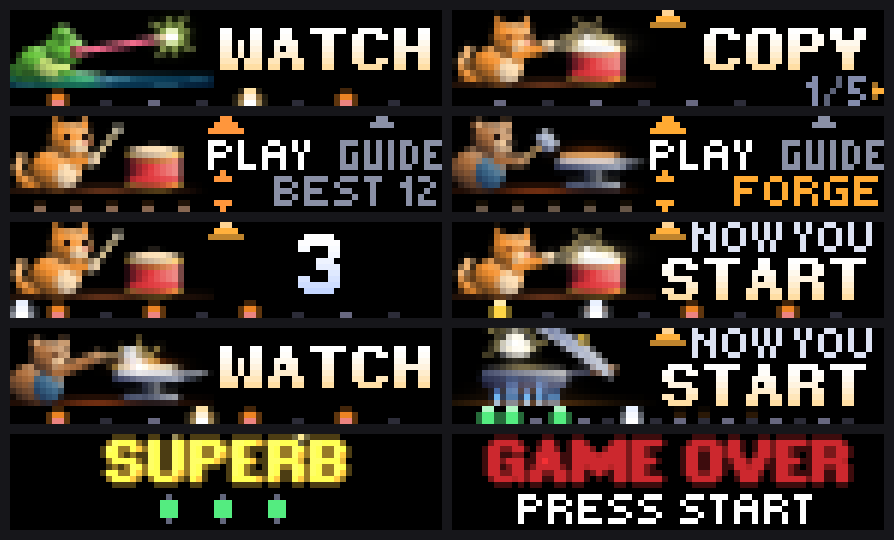
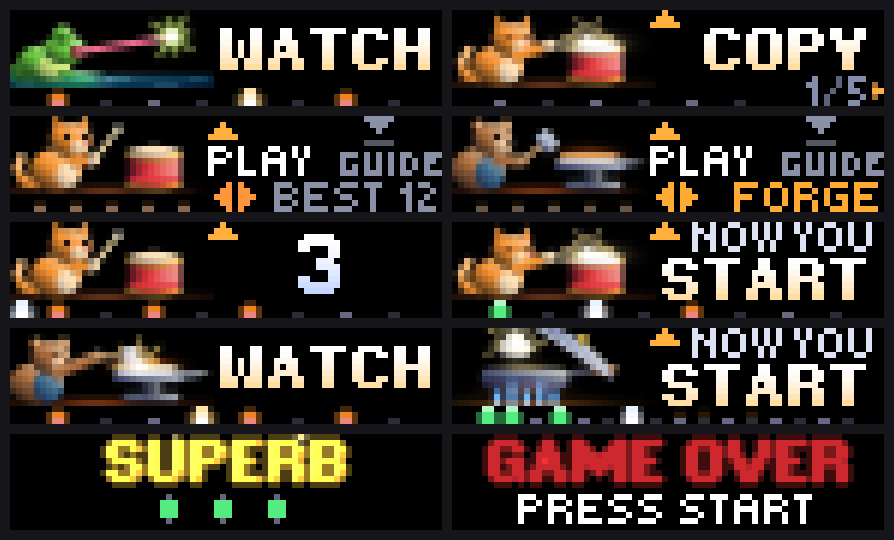
Bop Back: one mark for pressing the knob, Start mark that moves

diff --git a/bop_back/src/main.js b/bop_back/src/main.js
@@ -9,7 +9,7 @@
 // of five pages shown the first time the app is used (images/bk_<n>.png: the player turns them), the start.
 // Nothing is made on a beat: a round moves or exchanges pictures that exist (see TIMING below).
 
-const D = {"app":"io.github.windagh.bop_back","acts":[{"k":"cat","n":"CAT","c":"#FF963CFF"},{"k":"forge","n":"FORGE","c":"#FFAA32FF"},{"k":"frog","n":"FROG","c":"#96E850FF"},{"k":"peck","n":"PECK","c":"#FF6050FF"},{"k":"pop","n":"POP","c":"#FFD650FF"}],"rh":[[[8,90,"x.x.x.x.",0,1],[8,90,"x.x.x...",1,1],[8,90,"x...x.x.",2,1],[8,90,"x.x...x.",3,1],[8,90,"..x.x.x.",4,1]],[[8,96,"x.x.xxx.",5,2],[8,96,"xxx.x.x.",6,2],[8,96,"x.xxx.x.",7,2],[8,96,"x.x.x.xx",8,2],[8,96,"xxx.xxx.",9,2]],[[8,104,"x..x..x.",10,3],[8,104,"x..xx.x.",11,3],[8,104,"x.xx..x.",12,3],[8,104,"x.x..xx.",13,3],[8,104,"x..x.xx.",14,3]],[[8,112,"xx.xx.x.",15,4],[8,112,"x..x.x.x",16,4],[8,112,"xxx..xx.",17,4],[8,112,"x.xx.xx.",18,4],[8,112,".xx.x.x.",19,4]],[[8,108,"x.x.x.x.x.xxx...",20,5],[8,108,"x..x..x.x.x.x...",21,5],[8,108,"x.xxx...x.xx..x.",22,5],[8,108,"x.x.xx..x.xx.x..",23,5],[8,108,"xxx.x...xxx.x...",24,5]],[[16,100,"x...x.xxx...x...",25,6],[16,100,"xx..x...xx..x...",26,6],[16,100,"x...xx..x...xx..",27,6],[16,100,"x.x.xx..x...x...",28,6],[16,100,"x...x...xx.xx...",29,6]],[[8,124,"x.xxx.xx",30,7],[8,124,"xx.x.xx.",31,7],[8,124,"xxx.xx.x",32,7],[8,124,"x..xxx.x",33,7],[8,124,".x.xx.x.",34,7]],[[8,130,"x.xx.x..x.x.xx..",35,8],[8,130,"x..x..x.x..xx.x.",36,8],[8,130,"xx.x..x.xx.x....",37,8],[8,130,"x.x.xx.x..x.x.x.",38,8],[16,112,"x..xx.x.x..xx.x.",39,8]]],"signs":{"superb":567,"ok":300,"again":700,"over":700},"book":5,"titleW":33,"gag":750,"logo":1667,"dimFrom":4,"small":{"A":4,"B":4,"C":4,"D":4,"E":4,"F":4,"G":4,"H":4,"I":1,"J":3,"K":4,"L":3,"M":5,"N":4,"O":4,"P":4,"Q":4,"R":4,"S":4,"T":3,"U":4,"V":3,"W":5,"X":3,"Y":3,"Z":3,"a":3,"b":3,"c":3,"d":3,"e":3,"f":2,"g":3,"h":3,"i":1,"j":2,"k":3,"l":1,"m":5,"n":3,"o":3,"p":3,"q":3,"r":2,"s":3,"t":2,"u":3,"v":3,"w":5,"x":3,"y":3,"z":3,"0":3,"1":2,"2":3,"3":3,"4":3,"5":3,"6":3,"7":3,"8":3,"9":3,",":1,":":1,".":1,"%":4,"/":2,"-":2,"+":3," ":1,"&":4},"smallGap":1};
+const D = {"app":"io.github.windagh.bop_back","acts":[{"k":"cat","n":"CAT","c":"#FF963CFF"},{"k":"forge","n":"FORGE","c":"#FFAA32FF"},{"k":"frog","n":"FROG","c":"#96E850FF"},{"k":"peck","n":"PECK","c":"#FF6050FF"},{"k":"pop","n":"POP","c":"#FFD650FF"}],"rh":[[[8,90,"x.x.x.x.",0,1],[8,90,"x.x.x...",1,1],[8,90,"x...x.x.",2,1],[8,90,"x.x...x.",3,1],[8,90,"..x.x.x.",4,1]],[[8,96,"x.x.xxx.",5,2],[8,96,"xxx.x.x.",6,2],[8,96,"x.xxx.x.",7,2],[8,96,"x.x.x.xx",8,2],[8,96,"xxx.xxx.",9,2]],[[8,104,"x..x..x.",10,3],[8,104,"x..xx.x.",11,3],[8,104,"x.xx..x.",12,3],[8,104,"x.x..xx.",13,3],[8,104,"x..x.xx.",14,3]],[[8,112,"xx.xx.x.",15,4],[8,112,"x..x.x.x",16,4],[8,112,"xxx..xx.",17,4],[8,112,"x.xx.xx.",18,4],[8,112,".xx.x.x.",19,4]],[[8,108,"x.x.x.x.x.xxx...",20,5],[8,108,"x..x..x.x.x.x...",21,5],[8,108,"x.xxx...x.xx..x.",22,5],[8,108,"x.x.xx..x.xx.x..",23,5],[8,108,"xxx.x...xxx.x...",24,5]],[[16,100,"x...x.xxx...x...",25,6],[16,100,"xx..x...xx..x...",26,6],[16,100,"x...xx..x...xx..",27,6],[16,100,"x.x.xx..x...x...",28,6],[16,100,"x...x...xx.xx...",29,6]],[[8,124,"x.xxx.xx",30,7],[8,124,"xx.x.xx.",31,7],[8,124,"xxx.xx.x",32,7],[8,124,"x..xxx.x",33,7],[8,124,".x.xx.x.",34,7]],[[8,130,"x.xx.x..x.x.xx..",35,8],[8,130,"x..x..x.x..xx.x.",36,8],[8,130,"xx.x..x.xx.x....",37,8],[8,130,"x.x.xx.x..x.x.x.",38,8],[16,112,"x..xx.x.x..xx.x.",39,8]]],"signs":{"superb":567,"ok":300,"again":700,"over":700},"book":5,"titleW":33,"marks":{"start":["..#..",".###.","#####"],"press":["#####",".###.","..#..",".....","#####"],"turn":["..#.#..",".##.##.","###.###",".##.##.","..#.#.."]},"gag":750,"logo":1667,"dimFrom":4,"small":{"A":4,"B":4,"C":4,"D":4,"E":4,"F":4,"G":4,"H":4,"I":1,"J":3,"K":4,"L":3,"M":5,"N":4,"O":4,"P":4,"Q":4,"R":4,"S":4,"T":3,"U":4,"V":3,"W":5,"X":3,"Y":3,"Z":3,"a":3,"b":3,"c":3,"d":3,"e":3,"f":2,"g":3,"h":3,"i":1,"j":2,"k":3,"l":1,"m":5,"n":3,"o":3,"p":3,"q":3,"r":2,"s":3,"t":2,"u":3,"v":3,"w":5,"x":3,"y":3,"z":3,"0":3,"1":2,"2":3,"3":3,"4":3,"5":3,"6":3,"7":3,"8":3,"9":3,",":1,":":1,".":1,"%":4,"/":2,"-":2,"+":3," ":1,"&":4},"smallGap":1};
 // ===== beat.js =====
 const HIT_MS = 120;                 // Relaxed (the default): a press this near its hit counts ...
 const PERFECT_MS = 60;              // ... and this near is perfect
@@ -315,10 +315,22 @@ let zBase = 0;
 const lifted = (z) => (z >= TOP_Z - 1000 ? z : z + zBase);
 const wire = (el) => JSON.stringify(el.z_index >= TOP_Z - 1000 || zBase === 0 ? el : Object.assign({}, el, { z_index: el.z_index + zBase }));
 const onTop = (id) => id[0] === "v" || id[0] === "z" || id[0] === "k";     // (ids of what lies over all pages)
-const arrowUp = (c) => "! XPM2\n6 3 2 1\n. c none\na c " + c.slice(0, 7) + "\n..aa..\n.aaaa.\naaaaaa";
-const guideCue = (c) => "! XPM2\n17 9 2 1\n. c none\na c " + c.slice(0, 7) + "\n......aa.........\n.....aaaa........\n.................\n................." +
-"\naaa.a.a.a.aa..aaa\na...a.a.a.a.a.a..\na.a.a.a.a.a.a.aa.\na.a.a.a.a.a.a.a..\naaa.aaa.a.aa..aaa";
-const upDown = (c) => "! XPM2\n3 7 2 1\n. c none\na c " + c.slice(0, 7) + "\n.a.\naaa\n...\n...\n...\naaa\n.a.";
+const xpmRows = (rows, more) => {
+let w = 0;
+for (let i = 0; i < rows.length; i++) w = Math.max(w, rows[i].length);
+const dots = ".".repeat(w);
+return rows.map((r) => (r.replace(/#/g, "a") + dots).slice(0, w)).join("\n") + (more || "");
+};
+const markXpm = (rows, c) => "! XPM2\n" + rows[0].length + " " + rows.length + " 2 1\n. c none\na c " + c.slice(0, 7) + "\n" + xpmRows(rows);
+const arrowUp = (c) => markXpm(D.marks.start, c);              // START
+const turnMark = (c) => markXpm(D.marks.turn, c);              // the knob turned
+const AMBER = "#FFB03CFF", QUIET = "#8A90A6FF", QUIET_GROUND = "#535664FF";
+const guideCue = () => {
+const m = D.marks.press, rows = [];
+for (let i = 0; i < m.length; i++) rows.push("...." + (i === m.length - 1 ? m[i].replace(/#/g, "b") : m[i].replace(/#/g, "a")) + "........");
+rows.push(".................", "aaa.a.a.a.aa..aaa", "a...a.a.a.a.a.aa.", "a.a.a.a.a.a.a.a..", "aaa.aaa.a.aa..aaa");
+return "! XPM2\n17 " + rows.length + " 3 1\n. c none\na c " + QUIET.slice(0, 7) + "\nb c " + QUIET_GROUND.slice(0, 7) + "\n" + rows.join("\n");
+};
 const live = new Map();             // id -> { s: the element as last sent, t: when }
 const loose = [];                   // ids that were sent by hand, on top of the page: gone with the next page
 async function wipe(ids) {
@@ -389,20 +401,22 @@ for (let i = 0; i < els.length; i++) mine[els[i].id] = 1;
 await wipe(olds.filter((id) => !onTop(id) && !mine[id]));
 }
 let nameUntil = 0, unsaved = false;
-function titleEls(moving) {
+function titleEls(moving, markStill) {
 const a = D.acts[st.scene], naming = Date.now() < nameUntil || st.best === 0;
 const els = [rect("bg", 0, 0, 72, 16, BLACK, 0), image("st", a.k + "_t", 0, 0, 1),
-bitmap("go", arrowUp(a.c), 33, 0, 4), text("pl", "PLAY", "small", 33, 2, WHITE),             // under START: play
-bitmap("gd", guideCue(GREY), 55, 0, 4),                       // at the knob: a small arrow and GUIDE (OK opens the book)
-bitmap("ud", upDown(a.c), 34, 9, 4),
-text("ln", naming ? a.n : "BEST " + Math.min(st.best, 99), "small", 72, 8, naming ? a.c : GREY, "top_right")];
+text("pl", "PLAY", "small", 33, 3, WHITE),                     // under START's mark: play
+bitmap("gd", guideCue(), 55, 0, 4),                            // at the knob: the press mark and GUIDE (OK opens the book)
+bitmap("ud", turnMark(a.c), 34, 11, 4),                        // the knob turned: another act
+text("ln", naming ? a.n : "BEST " + Math.min(st.best, 99), "small", 72, 9, naming ? a.c : GREY, "top_right")];
 if (moving) els.push(film("f", a.k + "_idle", 0, 0, 2, true));
+if (markStill) els.push(bitmap("g0", arrowUp(AMBER), 33, 1, 4));
+else els.push(film("go", "go_bob", 33, 0, 5, true));
 return tag(els, "t");
 }
 const plan = D.trace && D.auto ? [1, 1, 5] : null;
 let planned = false;
 async function title() {
-if (onPage !== "title") await draw("title", titleEls(false));
+if (onPage !== "title") await draw("title", titleEls(false, true));
 await show(titleEls(true));
 saveErrs();                       // (at rest: how many draw requests the bar refused, if that has changed)
 await trFlush();
@@ -438,7 +452,7 @@ unsaved = false;
 if (k.ok) {                       // OK: the guide. It is shut again on this page; it starts nothing
 nameUntil = 0;
 await show(titleEls(true));
-await bookMake();
+await bookMake(false);
 await book(false);
 return;
 }
@@ -860,7 +874,7 @@ mode = g.hearts > 0 ? "card" : "over";
 }
 }
 function pauseEls() {
-return tag([rect("bg", 0, 0, 72, 16, BLACK, 0), bitmap("up", arrowUp(WHITE), 33, 0, 4), text("go", "START: GO ON", "small", 36, 2, WHITE, "top_mid"),
+return tag([rect("bg", 0, 0, 72, 16, BLACK, 0), bitmap("up", arrowUp(AMBER), 33, 0, 4), text("go", "START: GO ON", "small", 36, 2, WHITE, "top_mid"),
 text("q", "BACK: QUIT", "small", 36, 8, GREY, "top_mid")], "z");
 }
 async function pause() {
@@ -934,23 +948,27 @@ else if (mode === "over") await gameOver();
 }
 const BOOK_Z = TOP_Z - 100, BOOK_ALIVE_MS = 48000;
 const leaf = (i, on) => wire(image("k_" + i, "bk_" + (i + 1), on ? 0 : OFF, 0, BOOK_Z - i));
-function bookMake() {
+const bookMark = (id, on) => '{"id":"' + id + '","type":"animation","path":"animations/go_bob.anim","x":' + (on ? 33 : OFF) +
+',"y":0,"align":"top_left","loop":true,"section":"default","timeout":' + STILL + ',"z_index":' + (BOOK_Z + 1) + "}";
+function bookMake(first) {
 const parts = [];
 for (let i = 0; i < D.book; i++) parts.push(leaf(i, false));
+if (first) parts.push(bookMark("k_go", false));
 return post(parts);
 }
 async function book(first) {
-const last = D.book - 1, ids = [];
+const last = D.book - 1, ids = [], markId = first ? "k_go" : "t_go";
 let at = 0, shown = 0, sent = Date.now();
 const pile = (from) => {
 const parts = [];
 for (let i = from; i <= last; i++) parts.push(leaf(i, i >= shown));
+if (from === 0) parts.push(bookMark(markId, shown === 0));
 return parts;
 };
 for (let i = 0; i <= last; i++) ids.push("k_" + i);
 turns.length = 0;
 mode = "book";
-await post([leaf(0, true)]);      // page 1 first: it covers the others as they come
+await post([leaf(0, true), bookMark(markId, true)]);           // page 1 first: it covers the others as they come
 await post(pile(1));
 if (first) await wipe(["zz_sp"]);
 let go = false;
@@ -978,6 +996,7 @@ go = true;
 if (!go && at !== shown) {
 const lo = Math.min(at, shown), hi = Math.max(at, shown), parts = [];
 for (let i = lo; i < hi; i++) parts.push(leaf(i, i >= at));
+if ((at === 0) !== (shown === 0)) parts.push(bookMark(markId, at === 0));
 await post(parts);
 shown = at;
 }
@@ -985,7 +1004,10 @@ shown = at;
 if (first) {
 mode = "boot";
 for (let i = 0; i < ids.length; i++) loose.push(ids[i]);     // (the last page stays until the title page lies under it)
+loose.push("k_go");
 } else {
+const mine = titleEls(true).filter((e) => e.id === "t_go");  // the main screen's mark: back to its own place and depth
+await post(mine.map(wire));
 await wipe(ids);                // (the title page lies under it: there it is again)
 mode = "title";
 }
@@ -1015,7 +1037,7 @@ await save();
 }
 }
 const read = !st.seen && !D.noguide && !plan;    // the book: once, the first time the app is used
-if (read) await bookMake();
+if (read) await bookMake(true);
 const until = async (at) => {     // (BACK ends the wait at once; other keys do not shorten it)
 while (!stopped && Date.now() < at) await nap(at - Date.now());
 };
